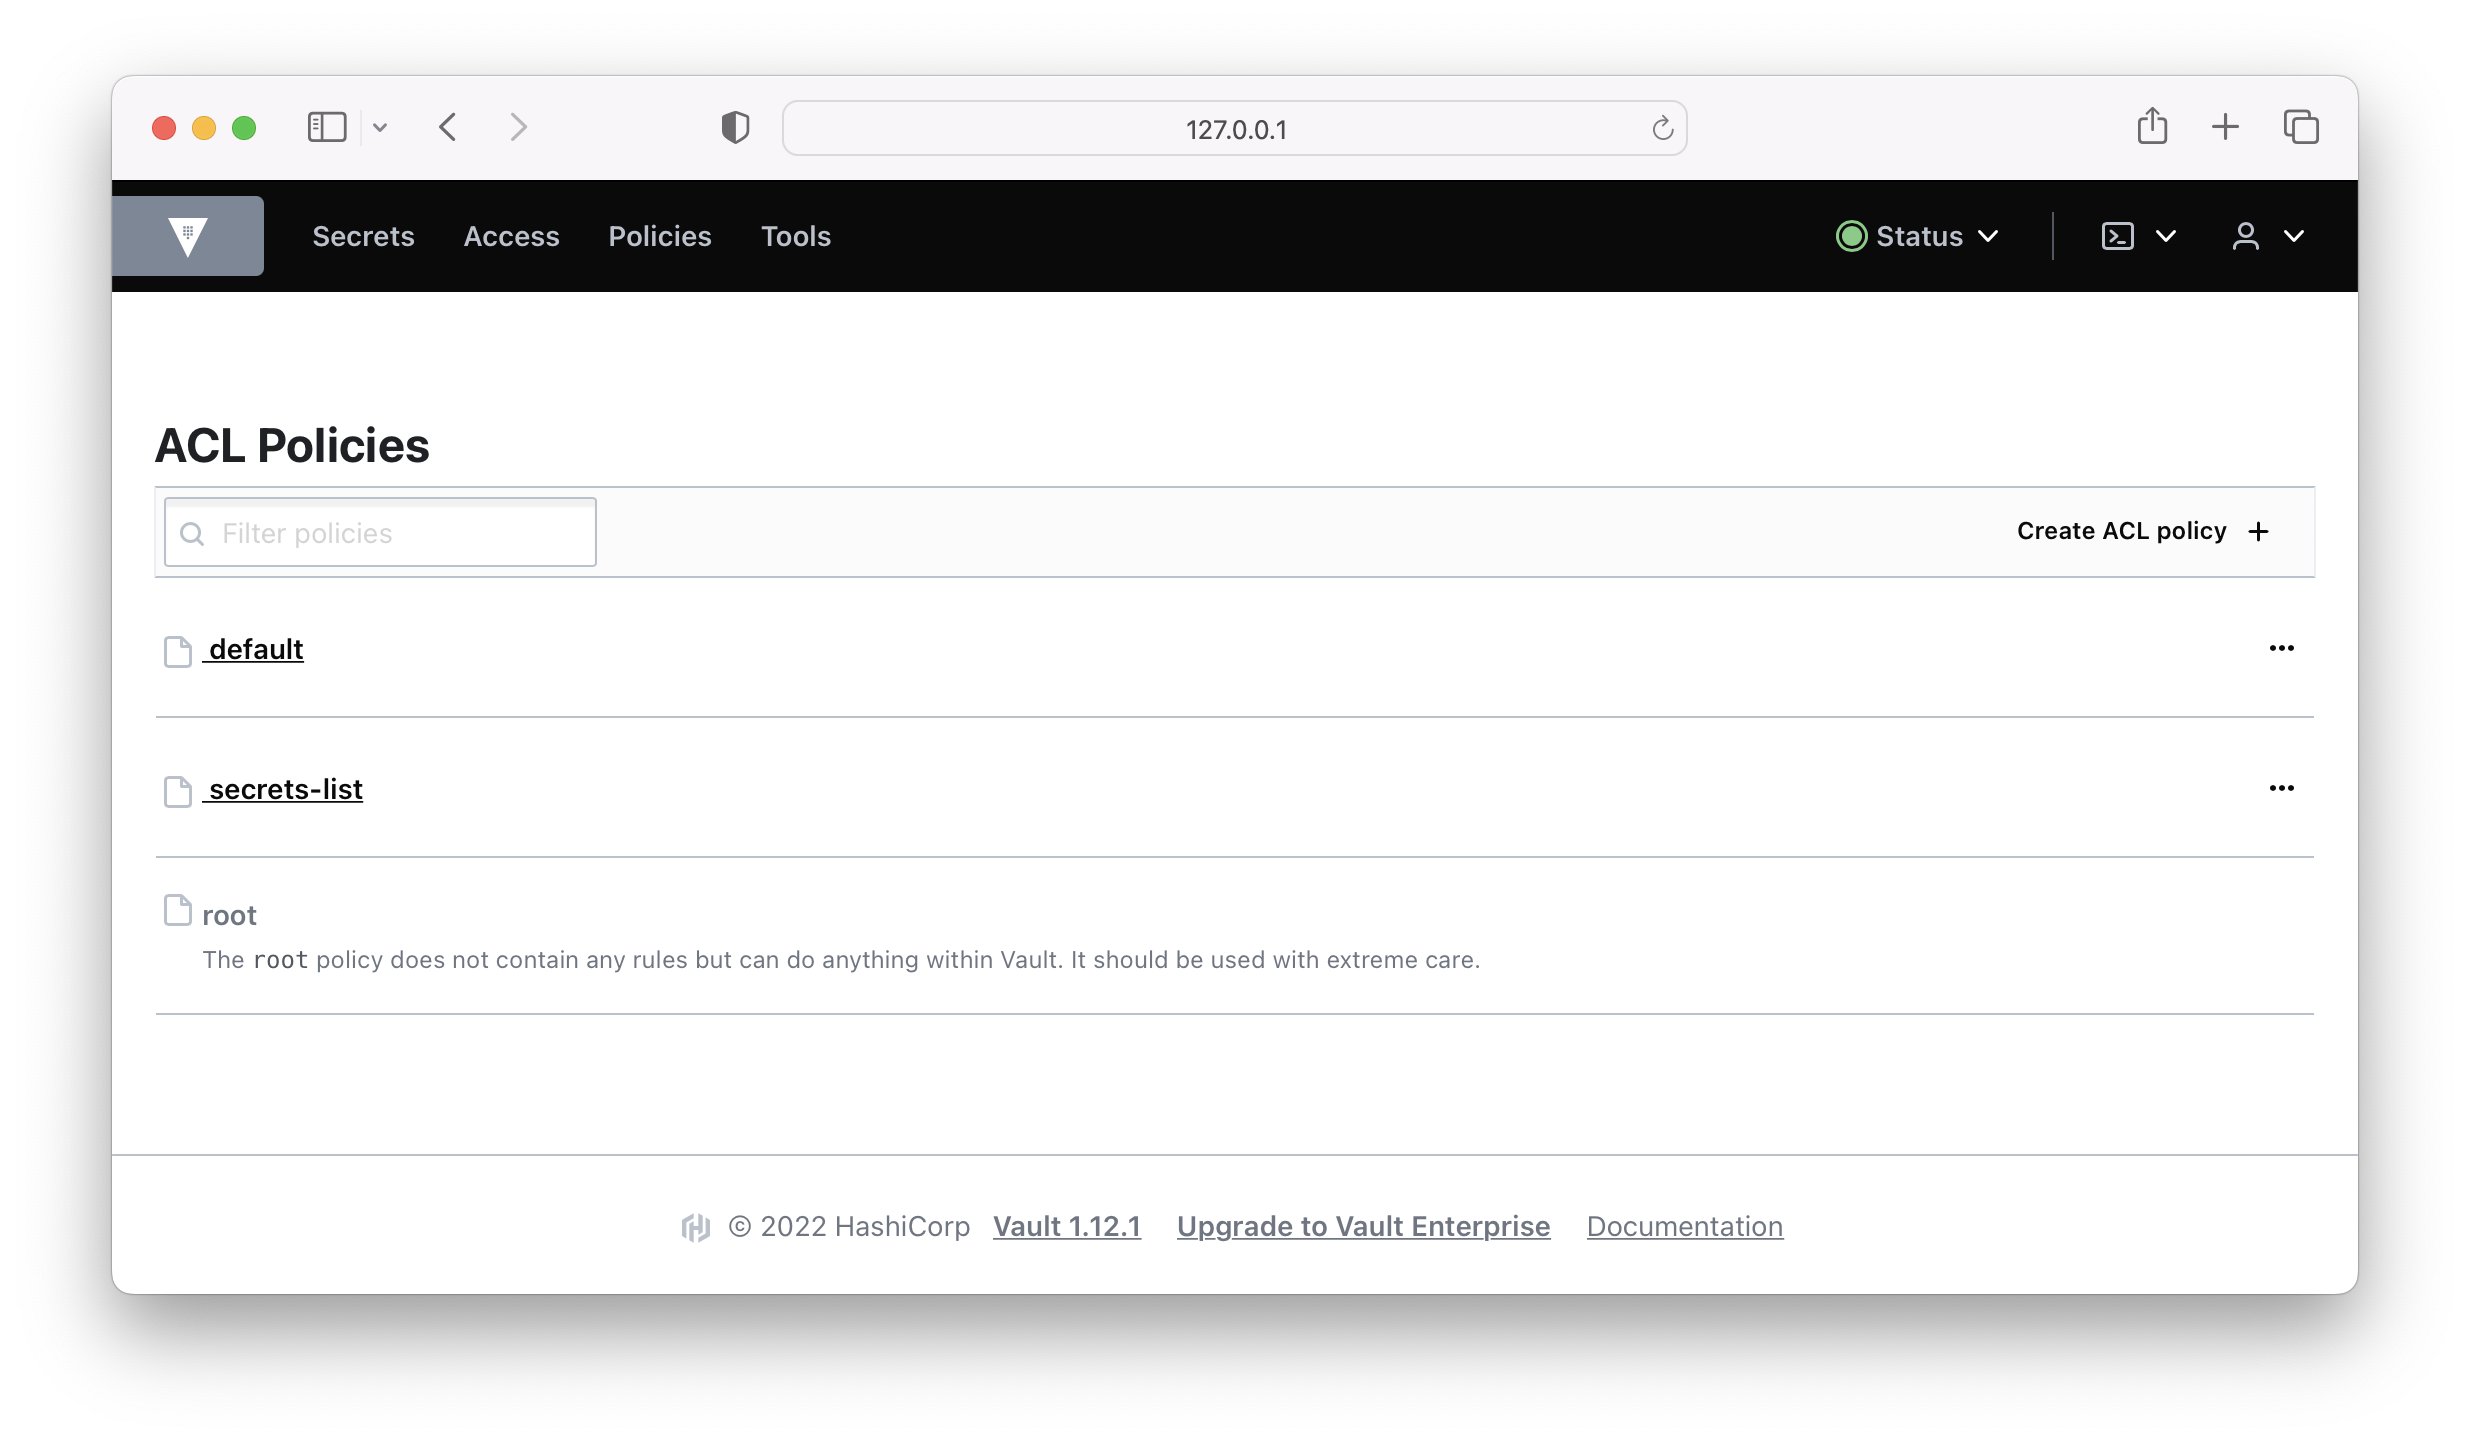
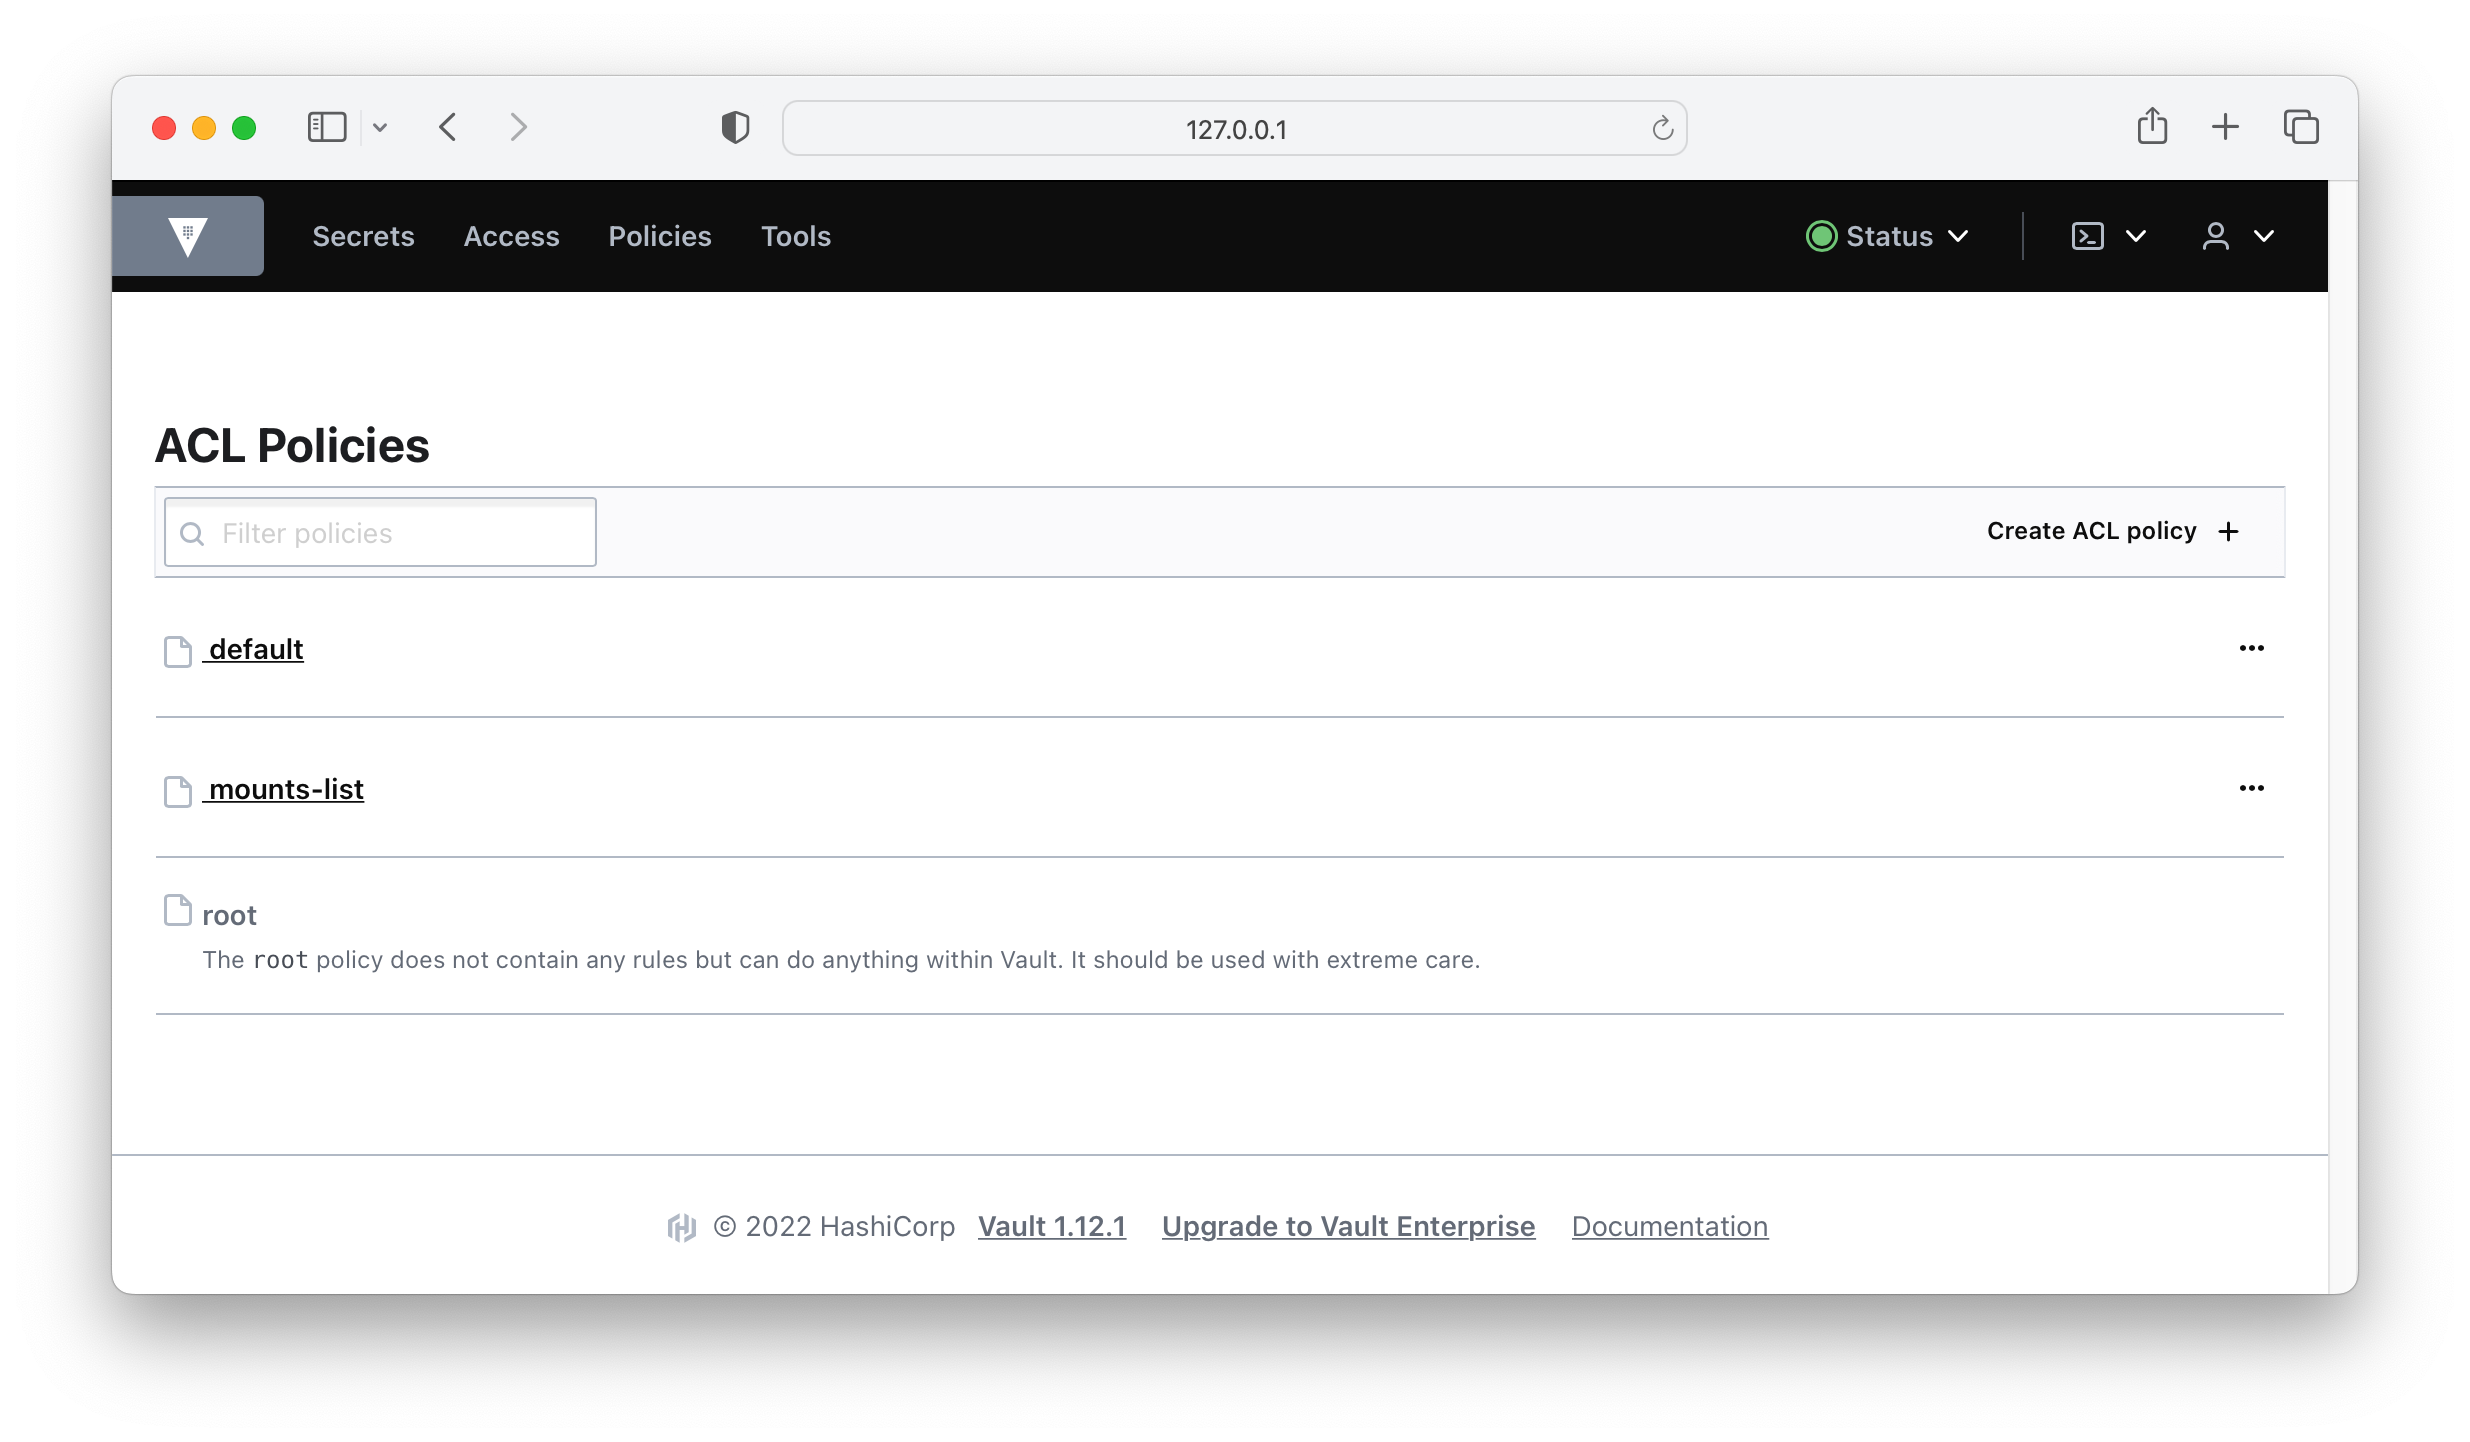
Add exercise

diff --git a/exercises/04-policy-manage/solution/solution.md b/exercises/04-policy-manage/solution/solution.md
@@ -75,15 +75,27 @@ You can find the list of policies under the menu item "Policies".
 
 ![vault-ui-policies](./imgs/vault-ui-policies.png)
 
-For details, simply click on the policy name. To edit the policy, click the option "Edit policy".
+For details, simply click on the policy name. You will see the contents of the uploaded policy file.
 
 ![vault-ui-policy-details](./imgs/vault-ui-policy-details.png)
 
-You can directly edit the policy from the UI. Press the "Save" button to let the changes take effect.
+You can directly edit the policy from the UI. Click the option "Edit policy". Press the "Save" button to let the changes take effect.
 
 ![vault-ui-policy-edit](./imgs/vault-ui-policy-edit.png)
 
-Alternatively, you can also update the policy from the CLI. First, you need to modify the policy file and then use the `policy write` command to apply the changes.
+Alternatively, you can also update the policy from the CLI. First, you need to modify the policy file with the following contents:
+
+```hcl
+path "sys/mounts/*" {
+  capabilities = ["read", "list", "sudo"]
+}
+
+path "sys/mounts" {
+  capabilities = ["read"]
+}
+```
+
+Then use the `policy write` command to apply the changes.
 
 ```
 $ vault policy write mounts-list mounts-list.hcl
